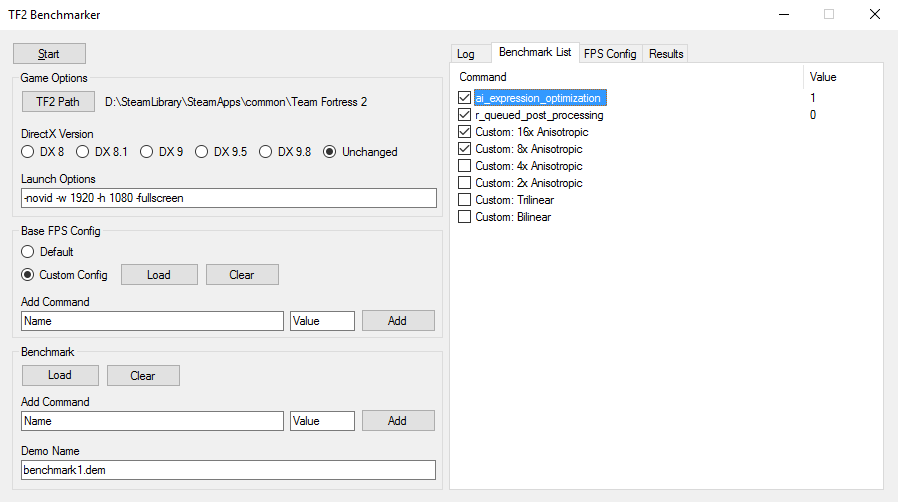
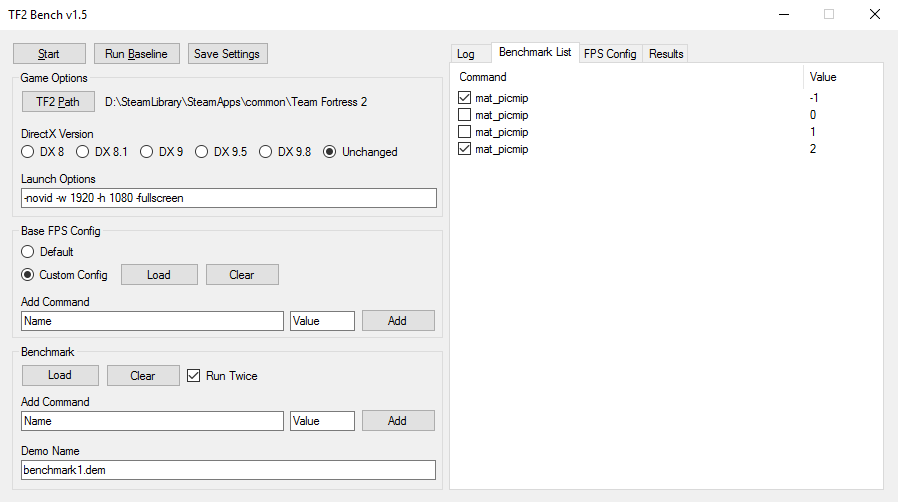
Update screenshots

diff --git a/README.md b/README.md
@@ -1,4 +1,4 @@
-# TF2Benchmarker
+# TF2 Bench
 An Automated Team Fortress 2 Benchmarker
 
 ![Main View](Screenshots/Main.png "")
